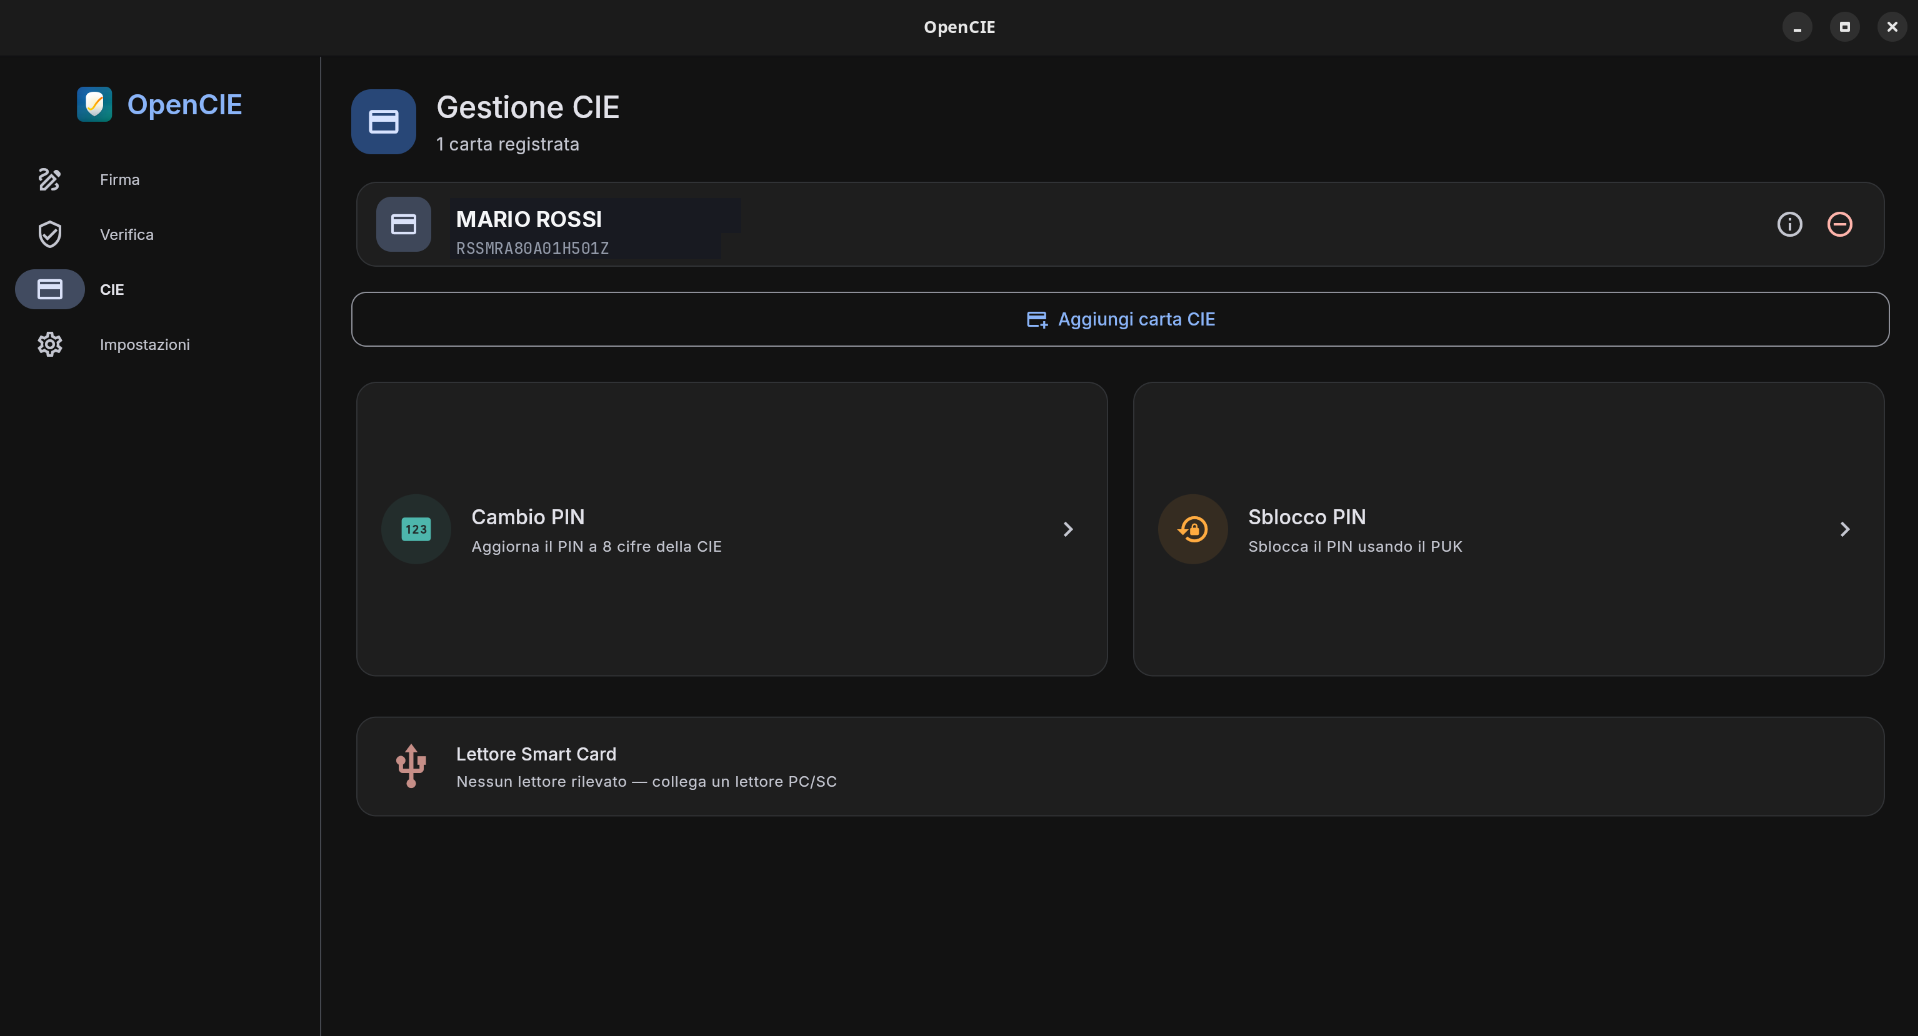
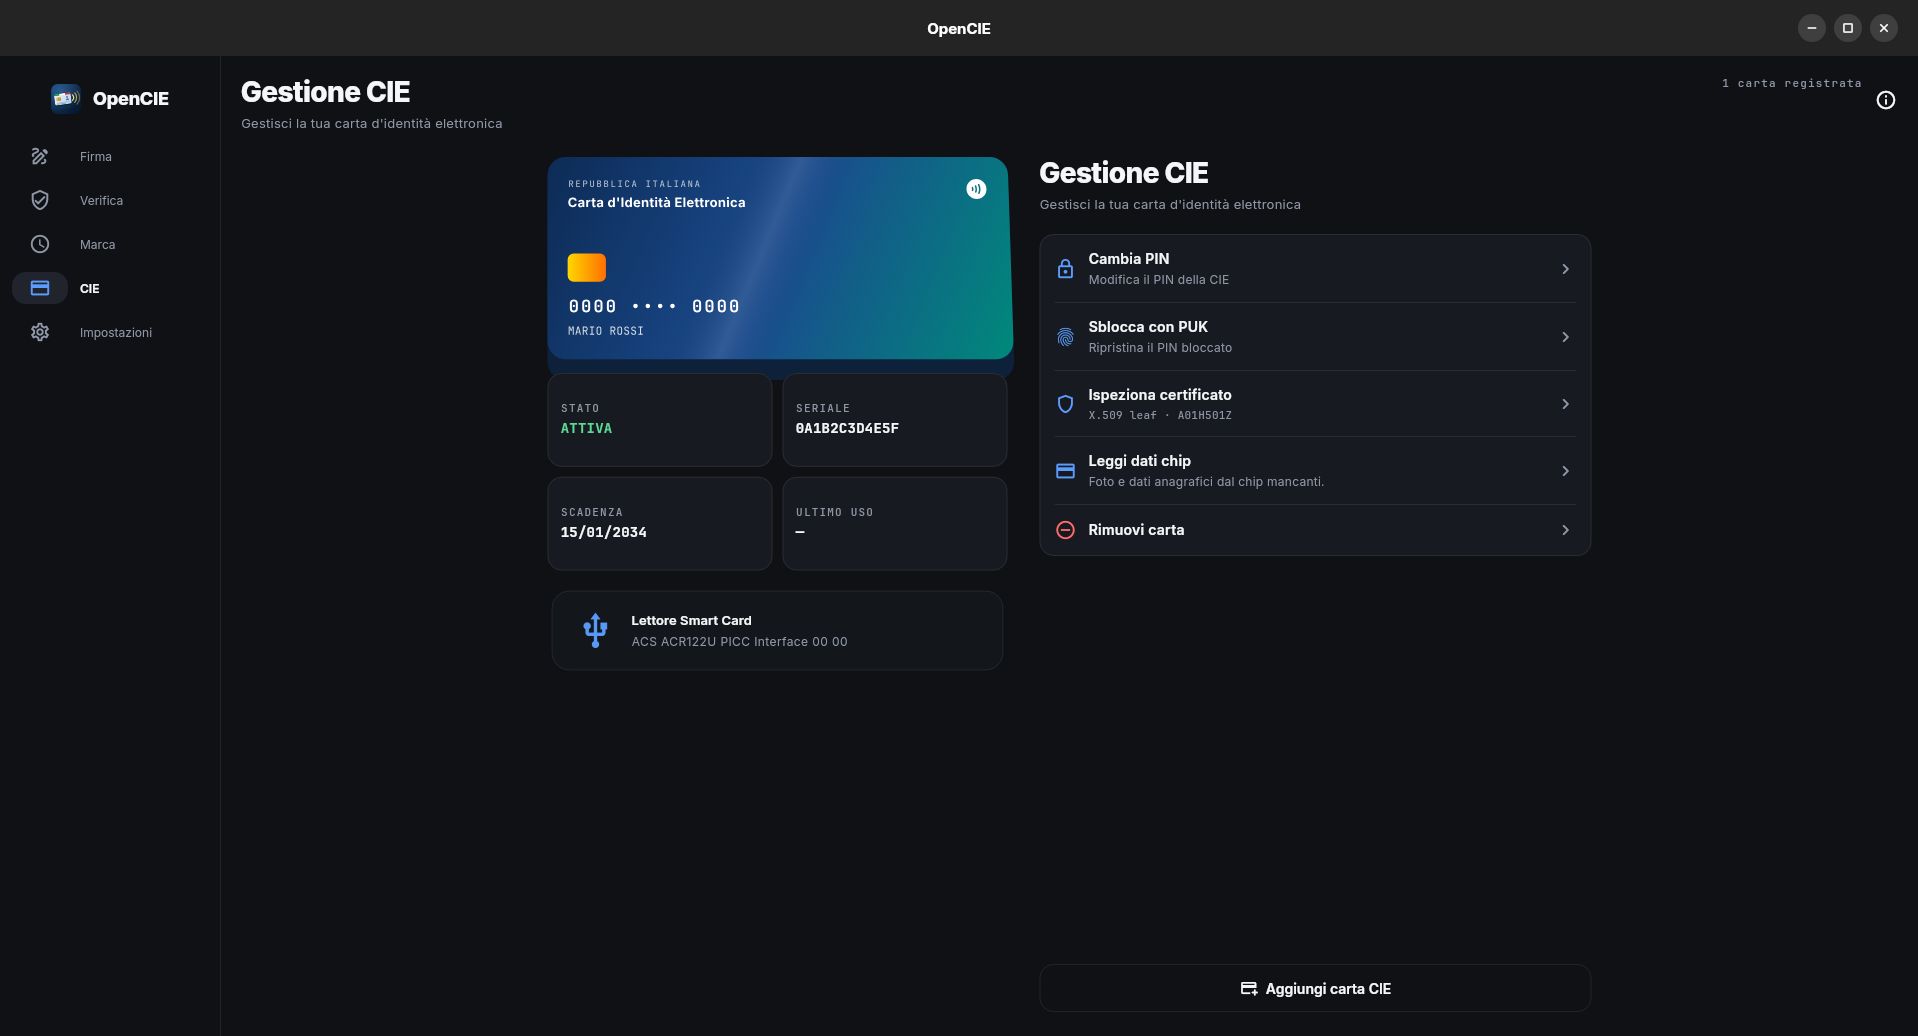
docs: regenerate screenshots from fake data
Screenshots are now rendered offscreen by test/screenshots with an
in-memory profile (MARIO ROSSI, generic file names, fake reader), so no
real card or user data can end up in them. Regenerate with
OPENCIE_SCREENSHOTS=1 fvm flutter test --tags screenshots test/screenshots.

diff --git a/test/screenshots/screenshots_test.dart b/test/screenshots/screenshots_test.dart
@@ -1,0 +1,269 @@
+// SPDX-License-Identifier: GPL-3.0-or-later
+//
+// Offscreen renderer for the README / Flathub screenshots.
+//
+//   fvm flutter test --tags screenshots test/screenshots
+//
+// Renders the real app (OpenCieApp -> router -> ShellPage + pages) with all
+// state faked: in-memory SharedPreferences, in-memory secure storage, a fake
+// reader stream and mocked package info. Nothing here reads the user's real
+// settings, keyring or ~/.CIEPKI, and no network call is made.
+@Tags(['screenshots'])
+library;
+
+import 'dart:convert';
+import 'dart:io';
+import 'dart:ui' as ui;
+
+import 'package:flutter/material.dart';
+import 'package:flutter/rendering.dart';
+import 'package:flutter/services.dart';
+import 'package:flutter_riverpod/flutter_riverpod.dart';
+import 'package:flutter_secure_storage/test/test_flutter_secure_storage_platform.dart';
+import 'package:flutter_secure_storage_platform_interface/flutter_secure_storage_platform_interface.dart';
+import 'package:flutter_test/flutter_test.dart';
+import 'package:go_router/go_router.dart';
+import 'package:opencie/app.dart';
+import 'package:opencie/ffi/opencie_pkcs11.dart';
+import 'package:opencie/router/shell_page.dart';
+import 'package:package_info_plus/package_info_plus.dart';
+import 'package:shared_preferences/shared_preferences.dart';
+
+const _size = Size(1918, 1036);
+const _titleBarHeight = 56.0;
+const _outDir = 'docs/screenshots';
+
+Future<void> _loadFont(String family, List<Future<ByteData>> files) async {
+  final loader = FontLoader(family);
+  for (final f in files) {
+    loader.addFont(f);
+  }
+  await loader.load();
+}
+
+Future<ByteData> _file(String path) async =>
+    ByteData.sublistView(await File(path).readAsBytes());
+
+/// Opt-in guard: the dart_test.yaml tag system cannot both exclude a tag by
+/// default and re-include it from the CLI, so the default `flutter test` run
+/// skips this file unless OPENCIE_SCREENSHOTS is set.
+final bool _enabled = Platform.environment['OPENCIE_SCREENSHOTS'] == '1';
+
+
+
+Future<void> _loadFonts() async {
+  // Bundled app fonts.
+  await _loadFont('Inter', [
+    for (final w in ['Regular', 'Medium', 'SemiBold', 'Bold', 'ExtraBold'])
+      _file('assets/fonts/Inter-$w.ttf'),
+  ]);
+  await _loadFont('JetBrainsMono', [
+    for (final w in ['Regular', 'Medium', 'SemiBold', 'Bold'])
+      _file('assets/fonts/JetBrainsMono-$w.ttf'),
+  ]);
+  // Flutter SDK material fonts.
+  final root = Platform.environment['FLUTTER_ROOT'];
+  if (root == null) throw StateError('FLUTTER_ROOT not set');
+  final mf = '$root/bin/cache/artifacts/material_fonts';
+  await _loadFont('MaterialIcons', [_file('$mf/MaterialIcons-Regular.otf')]);
+  await _loadFont('Roboto', [
+    for (final w in ['Regular', 'Medium', 'Bold'])
+      _file('$mf/Roboto-$w.ttf'),
+  ]);
+}
+
+/// Fully fake settings blob: one fake card, no secrets.
+Map<String, Object> _fakePrefs() {
+  final now = DateTime.now();
+  final settings = {
+    'locale': 'it',
+    'themeMode': 'dark',
+    'uiScale': 1.0,
+    'checkForUpdates': true,
+    'updateCheckConsentAsked': true,
+    'tsaConfig': {
+      'serverUrl': 'https://freetsa.org/tsr',
+      'username': '',
+      'autoSummerTime': true,
+    },
+    'proxyConfig': <String, Object>{},
+    'enrolledCards': [
+      {
+        'pan': '0000000000000000',
+        'name': 'MARIO ROSSI',
+        'serial': 'RSSMRA80A01H501Z',
+        'subject': 'CN=RSSMRA80A01H501Z/MARIO ROSSI',
+        'issuer': 'CN=CIE Fittizia (esempio)',
+        'certSerial': '0A1B2C3D4E5F',
+        'keyAlgorithm': 'RSA',
+        'notBefore': '2024-01-15T00:00:00.000',
+        'notAfter': '2034-01-15T00:00:00.000',
+      },
+    ],
+  };
+  String recent(List<(String, DateTime)> files) => jsonEncode([
+    for (final f in files) {'path': '/tmp/${f.$1}', 'addedAt': f.$2.toIso8601String()},
+  ]);
+  return {
+    'opencie_settings': jsonEncode(settings),
+    // Avoid the update check network call: pretend it ran just now.
+    'update_check_last_ms': now.millisecondsSinceEpoch,
+    'opencie_recent_sign_files': recent([
+      ('contratto.pdf', DateTime(2026, 3, 7, 10, 30)),
+      ('relazione.pdf', DateTime(2026, 3, 6, 16, 5)),
+      ('preventivo.pdf', DateTime(2026, 3, 5, 9, 12)),
+    ]),
+    'opencie_recent_verify_files': recent([
+      ('contratto_firmato.pdf.p7m', DateTime(2026, 3, 7, 10, 31)),
+      ('relazione_firmata.pdf', DateTime(2026, 3, 7, 9, 2)),
+      ('preventivo_firmato.pdf.p7m', DateTime(2026, 3, 6, 17, 40)),
+      ('fattura_firmata.pdf', DateTime(2026, 3, 6, 11, 8)),
+      ('preventivo.pdf', DateTime(2026, 3, 5, 9, 15)),
+    ]),
+  };
+}
+
+/// Mock desktop window title bar (the real captures included the WM one).
+class _TitleBar extends StatelessWidget {
+  const _TitleBar();
+
+  @override
+  Widget build(BuildContext context) {
+    Widget btn(IconData i) => Container(
+      width: 28,
+      height: 28,
+      margin: const EdgeInsets.only(right: 8),
+      decoration: const BoxDecoration(
+        color: Color(0x1FFFFFFF),
+        shape: BoxShape.circle,
+      ),
+      child: Icon(i, size: 14, color: Colors.white),
+    );
+    return Container(
+      height: _titleBarHeight,
+      color: const Color(0xFF242424),
+      child: Stack(
+        alignment: Alignment.center,
+        children: [
+          const Text(
+            'OpenCIE',
+            style: TextStyle(
+              fontFamily: 'Inter',
+              fontSize: 15,
+              fontWeight: FontWeight.w700,
+              color: Colors.white,
+              decoration: TextDecoration.none,
+            ),
+          ),
+          Align(
+            alignment: Alignment.centerRight,
+            child: Padding(
+              padding: const EdgeInsets.only(right: 12),
+              child: Row(
+                mainAxisSize: MainAxisSize.min,
+                children: [
+                  btn(Icons.remove),
+                  btn(Icons.crop_square),
+                  btn(Icons.close),
+                ],
+              ),
+            ),
+          ),
+        ],
+      ),
+    );
+  }
+}
+
+void main() {
+  TestWidgetsFlutterBinding.ensureInitialized();
+
+  setUpAll(() async {
+    if (_enabled) await _loadFonts();
+  });
+
+  testWidgets('render README screenshots', skip: !_enabled, (tester) async {
+    // --- isolate every external dependency ------------------------------
+    SharedPreferences.setMockInitialValues(_fakePrefs());
+    FlutterSecureStoragePlatform.instance = TestFlutterSecureStoragePlatform(
+      {},
+    );
+    PackageInfo.setMockInitialValues(
+      appName: 'OpenCIE',
+      packageName: 'io.github.m0rf30.opencie',
+      version: '0.4.3',
+      buildNumber: '10',
+      buildSignature: '',
+    );
+    OpenCiePkcs11.debugWatchReaders = () =>
+        Stream.value('ACS ACR122U PICC Interface 00 00');
+    addTearDown(() => OpenCiePkcs11.debugWatchReaders = null);
+
+    tester.view.physicalSize = _size;
+    tester.view.devicePixelRatio = 1.0;
+    tester.platformDispatcher.localesTestValue = const [Locale('it')];
+    tester.platformDispatcher.localeTestValue = const Locale('it');
+    addTearDown(() {
+      tester.view.resetPhysicalSize();
+      tester.view.resetDevicePixelRatio();
+      tester.platformDispatcher.clearLocalesTestValue();
+    });
+
+    final boundaryKey = GlobalKey();
+    await tester.pumpWidget(
+      RepaintBoundary(
+        key: boundaryKey,
+        child: Directionality(
+          textDirection: TextDirection.ltr,
+          child: Column(
+            children: const [
+              _TitleBar(),
+              Expanded(child: ProviderScope(child: OpenCieApp())),
+            ],
+          ),
+        ),
+      ),
+    );
+
+    Future<void> settle() async {
+      for (var i = 0; i < 10; i++) {
+        await tester.runAsync(
+          () => Future<void>.delayed(const Duration(milliseconds: 30)),
+        );
+        await tester.pump(const Duration(milliseconds: 100));
+      }
+    }
+
+    Future<void> capture(String name) async {
+      await settle();
+      final boundary =
+          boundaryKey.currentContext!.findRenderObject()!
+              as RenderRepaintBoundary;
+      await tester.runAsync(() async {
+        final ui.Image img = await boundary.toImage();
+        final bytes = await img.toByteData(format: ui.ImageByteFormat.png);
+        File('$_outDir/$name.png').writeAsBytesSync(
+          bytes!.buffer.asUint8List(),
+        );
+      });
+    }
+
+    Future<void> go(String location) async {
+      final ctx = tester.element(find.byType(ShellPage));
+      GoRouter.of(ctx).go(location);
+      await settle();
+    }
+
+    await settle();
+    // Router starts on /sign (one enrolled card).
+    expect(find.byType(ShellPage), findsOneWidget);
+
+    await capture('sign');
+    await go('/verify');
+    await capture('verify');
+    await go('/cie');
+    await capture('cie');
+    await go('/settings');
+    await capture('settings');
+  });
+}

diff --git a/lib/ffi/opencie_pkcs11.dart b/lib/ffi/opencie_pkcs11.dart
@@ -268,10 +268,20 @@ class OpenCiePkcs11 {
     }
   }
 
+  /// Test seam: when set, [watchReaders] yields this stream instead of
+  /// touching the native library (used by the offscreen screenshot renderer).
+  @visibleForTesting
+  static Stream<String?> Function()? debugWatchReaders;
+
   /// Stream that emits the first reader name (or null) whenever it changes.
   /// Desktop-only; on Android emits nothing.
   Stream<String?> watchReaders() async* {
     if (Platform.isAndroid) return;
+    final override = debugWatchReaders;
+    if (override != null) {
+      yield* override();
+      return;
+    }
 
     final receiver = ReceivePort();
     yield readerName();

diff --git a/README.md b/README.md
@@ -172,6 +172,8 @@ flatpak build-bundle --runtime-repo=https://flathub.org/repo/flathub.flatpakrepo
 flutter run -d <device-id>       # use `flutter devices` to list
 ```
 
+Regenerate the README/Flathub screenshots (offscreen render, fake data only): `OPENCIE_SCREENSHOTS=1 flutter test --tags screenshots test/screenshots`.
+
 ### Android release signing
 
 <details>
